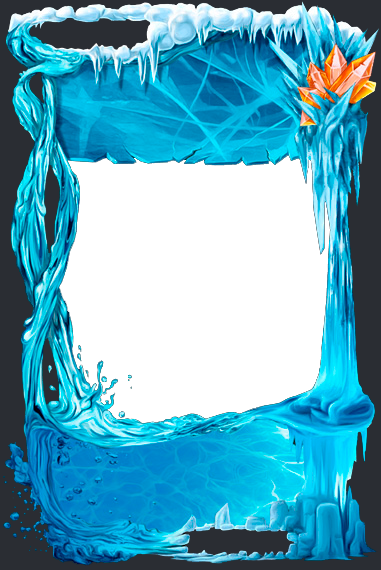
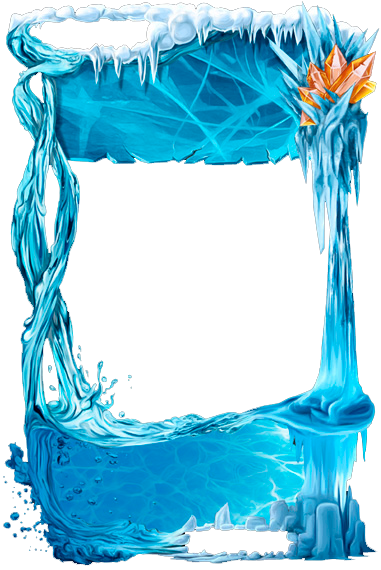
fix multiburn + new visual crop

diff --git a/test/test-frame.js b/test/test-frame.js
@@ -63,7 +63,7 @@ const cardGenerateFrameMorph = async (cardName, cardFrom, cardPhoto, itemPhoto) 
         {
             rect: {
                 x: 137,
-                y: 300,
+                y: 305,
                 width: 180,
                 height: 50
             },
@@ -98,7 +98,7 @@ const cardGenerateFrameMorph = async (cardName, cardFrom, cardPhoto, itemPhoto) 
     const ctx = canvas.getContext('2d')
   
     
-    ctx.drawImage(await loadImage('https://cdn.myanimelist.net/images/characters/4/356459.jpg'), 20, 90, 220, 290)
+    ctx.drawImage(await loadImage('https://cdn.myanimelist.net/images/characters/10/320409.jpg'), 0, 0, 230, 300, 25, 100, 220, 250)
     ctx.drawImage(await loadImage('test/framedCard.png'), null, null, 270, 400)
 
     
@@ -111,7 +111,7 @@ const cardGenerateFrameMorph = async (cardName, cardFrom, cardPhoto, itemPhoto) 
 
 
 
-  function invertColors(data, morph = [0,204,251]) {
+  function invertColors(data, morph = []) {
     for (var i = 0; i < data.length; i+= 4) {
       data[i] = data[i] + morph[0]; // Invert Red
       data[i+1] = data[i+1] + morph[1]; // Invert Green
@@ -263,5 +263,5 @@ morph = [
     [96, 96, 96], //gray
 ]
 
-cardGenerateFrameMorph('Zero Two', 'Darling in the FRANXX', 'https://cdn.myanimelist.net/images/characters/13/303917.jpg', 'images/comemoration_frame.png')
+cardGenerateFrameMorph('Stella Vermillion', 'Rakudai Kishi no Cavalry', 'https://cdn.myanimelist.net/images/characters/9/284122.jpg', 'images/water_revolution_frame.png')
 cardMorphedFinal()

diff --git a/scripts/cards.js b/scripts/cards.js
@@ -14,7 +14,7 @@ const cardFrame = async (cardName, cardFrom, cardPhoto, itemPhoto) => {
     const ctx = canvas.getContext('2d')
   
   
-    ctx.drawImage(await loadImage(cardPhoto), 20, 90, 230, 300)
+    ctx.drawImage(await loadImage(cardPhoto), 0, 0, 230, 300, 25, 100, 220, 250)
     ctx.drawImage(await loadImage(itemPhoto), null, null, 270, 400)
   
     ctx.font = 'Amaranth'
@@ -25,7 +25,7 @@ const cardFrame = async (cardName, cardFrom, cardPhoto, itemPhoto) => {
   
     drawMultilineText(
       ctx,
-      `${cardName}`,
+      `${cardName.substr(0,32)}`,
       {
         rect: {
           x: 137,

diff --git a/scripts/player.js b/scripts/player.js
@@ -246,7 +246,7 @@ const multiBurnCards = (code, message, client) => {
           .setColor("#ffffff")
           .setTitle("Deseja queimar as seguintes cartas?")
           .setDescription(
-            desc.join("\n")
+            desc.join("\n").substr(0, 4095)
           )
           .setThumbnail(user.avatarURL())
           .addField(":star: Stars:", starCalc.reduce(reducer).toString())
